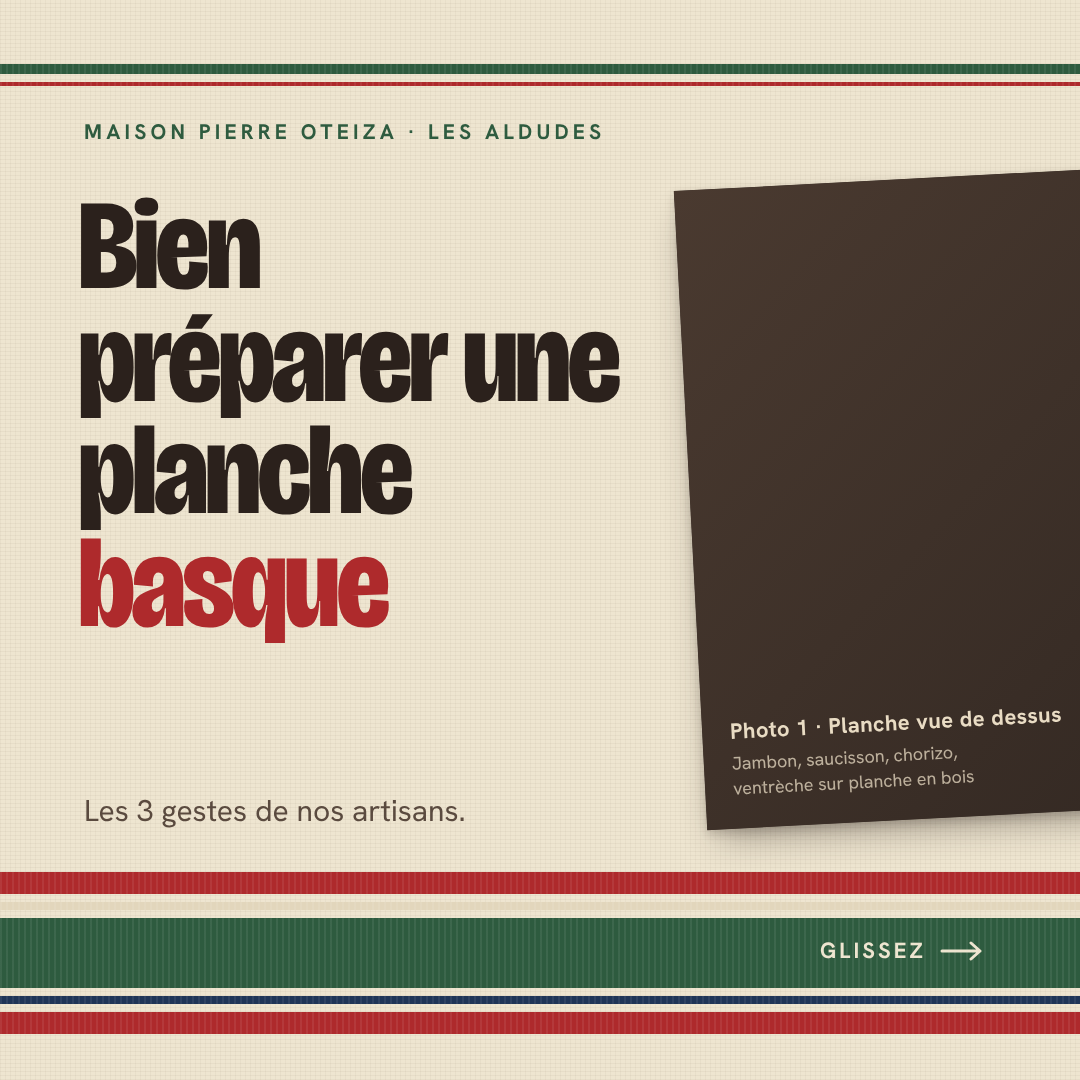
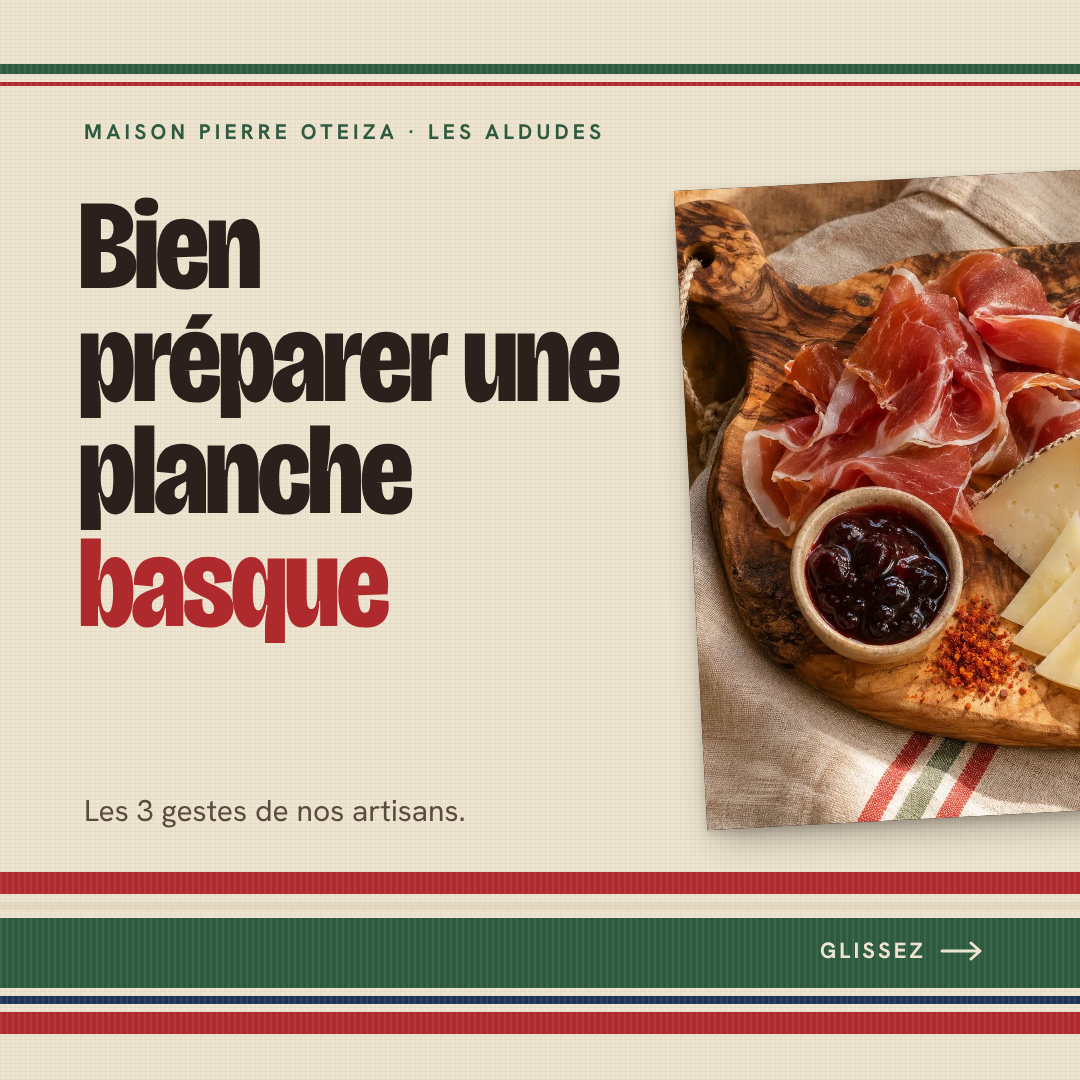
Intègre les 4 photos générées dans le carrousel Pierre Oteiza
Claude-Session: https://claude.ai/code/session_01M4KwiYuPc6C6YeqYRujdKa

Changed region(s): [[0.6111, 0.1528, 1.0, 0.7944]]

diff --git a/oteiza-prototype/fiche-prototype.md b/oteiza-prototype/fiche-prototype.md
@@ -30,8 +30,8 @@ Les 5 slides forment **un seul torchon basque**. Les bandes rouge, verte et bleu
 | **Lisibilité** | Titres en Bricolage Grotesque très gras, texte en Hanken Grotesk de 28 à 33 px, lisible sur mobile. Texte foncé sur fond écru, avec un fort contraste. |
 | **CTA visible** | Un bouton rouge plein avec une icône Instagram sur la dernière slide. |
 
-## Photos à insérer
-Les emplacements photo sont prévus. Il suffit de déposer les images dans `img/` avec ces noms, puis de relancer le rendu (ou de me les envoyer). Les prompts suivants servent à les générer avec ChatGPT, Gemini ou Canva :
+## Photos
+Les 4 photos (`img/`) ont été **générées par IA avec ChatGPT** à partir des prompts ci-dessous. Ce ne sont pas des photos réelles de la Maison Pierre Oteiza : pour une vraie publication, il faudrait les remplacer par des photos de la marque.
 
 1. **`img/planche.jpg`** (paysage 5:4) : *Photographie culinaire vue de dessus, planche en bois ancienne avec du jambon sec basque tranché très finement et plié en vagues, saucisson en éventail, chorizo, ventrèche, fromage de brebis, confiture de cerises noires, posée sur un torchon basque rayé rouge et vert. Lumière naturelle douce, tons chauds, aucune marque ni texte.*
 2. **`img/tranches.jpg`** (portrait 3:4) : *Gros plan sur les mains d'un artisan charcutier qui tranche à la main un jambon sec posé sur un support en bois, tranches presque transparentes, atelier rustique, lumière latérale chaude, aucune marque.*
